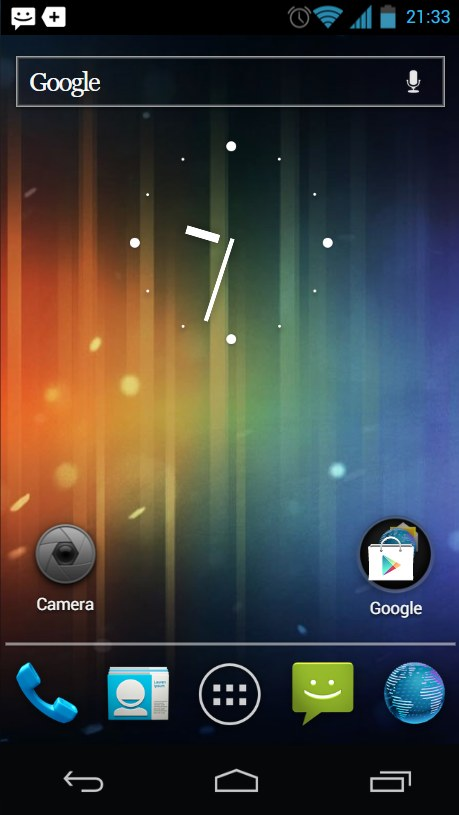
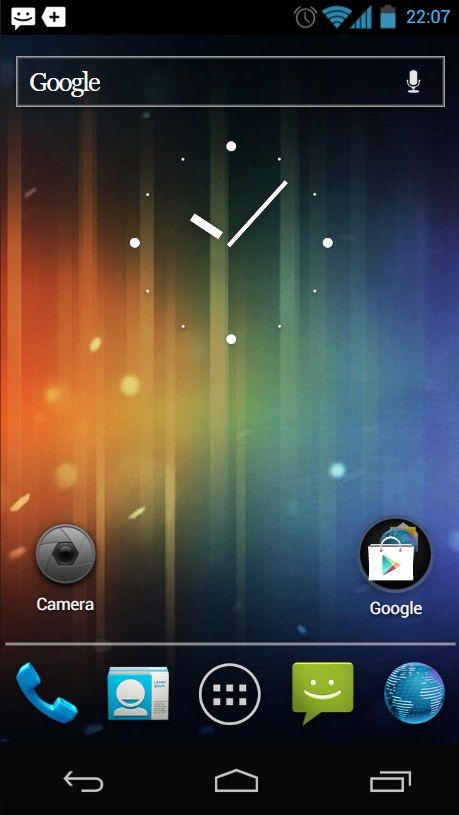
Recapture the 4.0.4 and 4.3 landing thumbnails with the corrected status bar spacing

diff --git a/versions/catalog.js b/versions/catalog.js
@@ -21,7 +21,7 @@ window.ANDROID_VERSIONS = [
     url: 'versions/4.0.4/',
     status: 'available',
     // Landing-card miniature: the version's default wallpaper and search bar style.
-    art: {shot: 'landing-home.jpg?v=1'}
+    art: {shot: 'landing-home.jpg?v=2'}
   },
   {
     id: '4.3',
@@ -32,7 +32,7 @@ window.ANDROID_VERSIONS = [
     description: 'Expandable notifications, Quick Settings, lock-screen widgets, Daydream and the BeanBag easter egg.',
     url: 'versions/4.3/',
     status: 'available',
-    art: {shot: 'landing-home.jpg?v=1', phone: 'nexus4'}
+    art: {shot: 'landing-home.jpg?v=2', phone: 'nexus4'}
   },
   { id: '4.4.4', name: 'KitKat', version: 'Android 4.4.4', year: '2014', device: 'Korabeli Android', status: 'planned' },
   { id: '5.1.1', name: 'Lollipop', version: 'Android 5.1.1', year: '2015', device: 'Korabeli Android', status: 'planned' }

diff --git a/index.html b/index.html
@@ -9,7 +9,7 @@
   <link rel="icon" type="image/svg+xml" href="favicon.svg">
   <link rel="stylesheet" href="styles.css?v=14">
   <script defer src="i18n.js?v=59"></script>
-  <script defer src="versions/catalog.js?v=12"></script>
+  <script defer src="versions/catalog.js?v=13"></script>
   <script defer src="app.js?v=10"></script>
 </head>
 <body>
